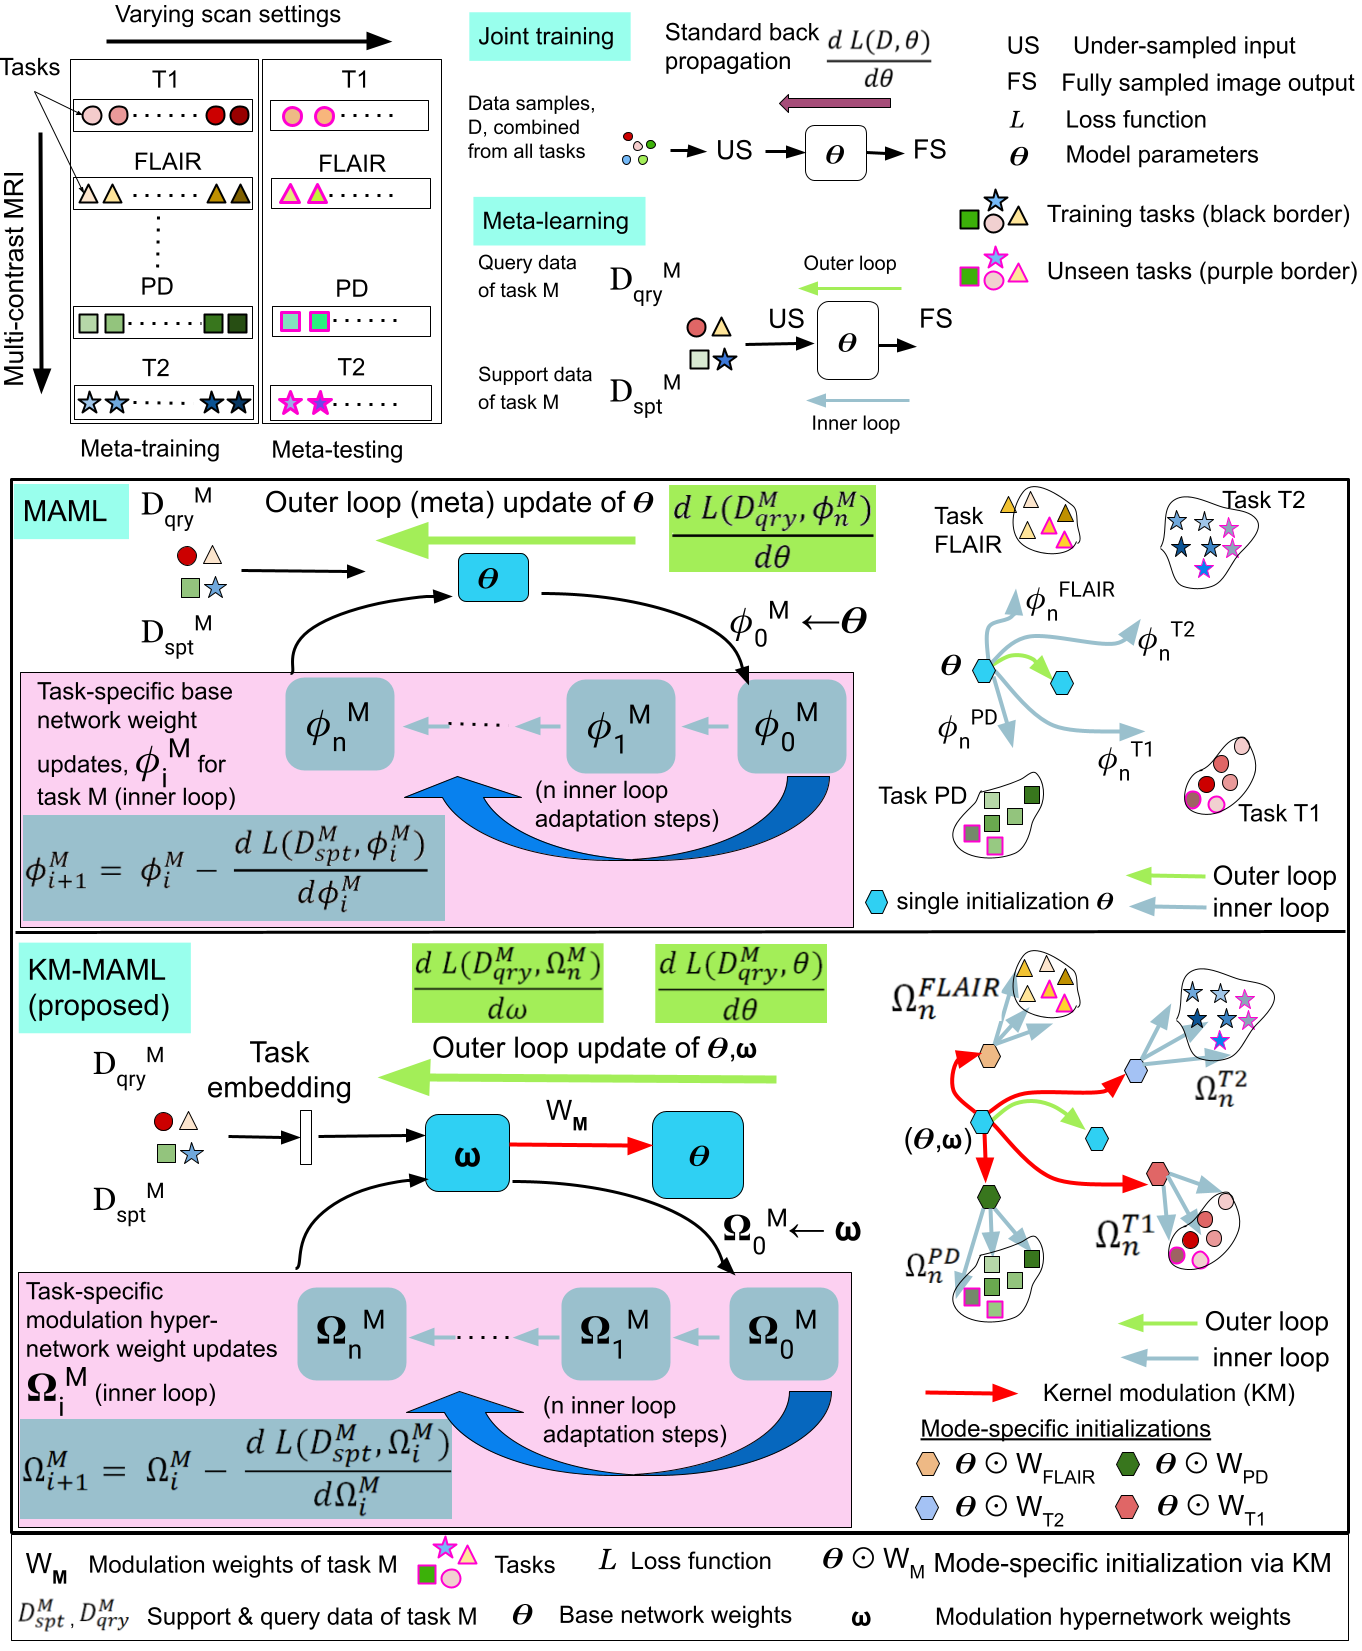
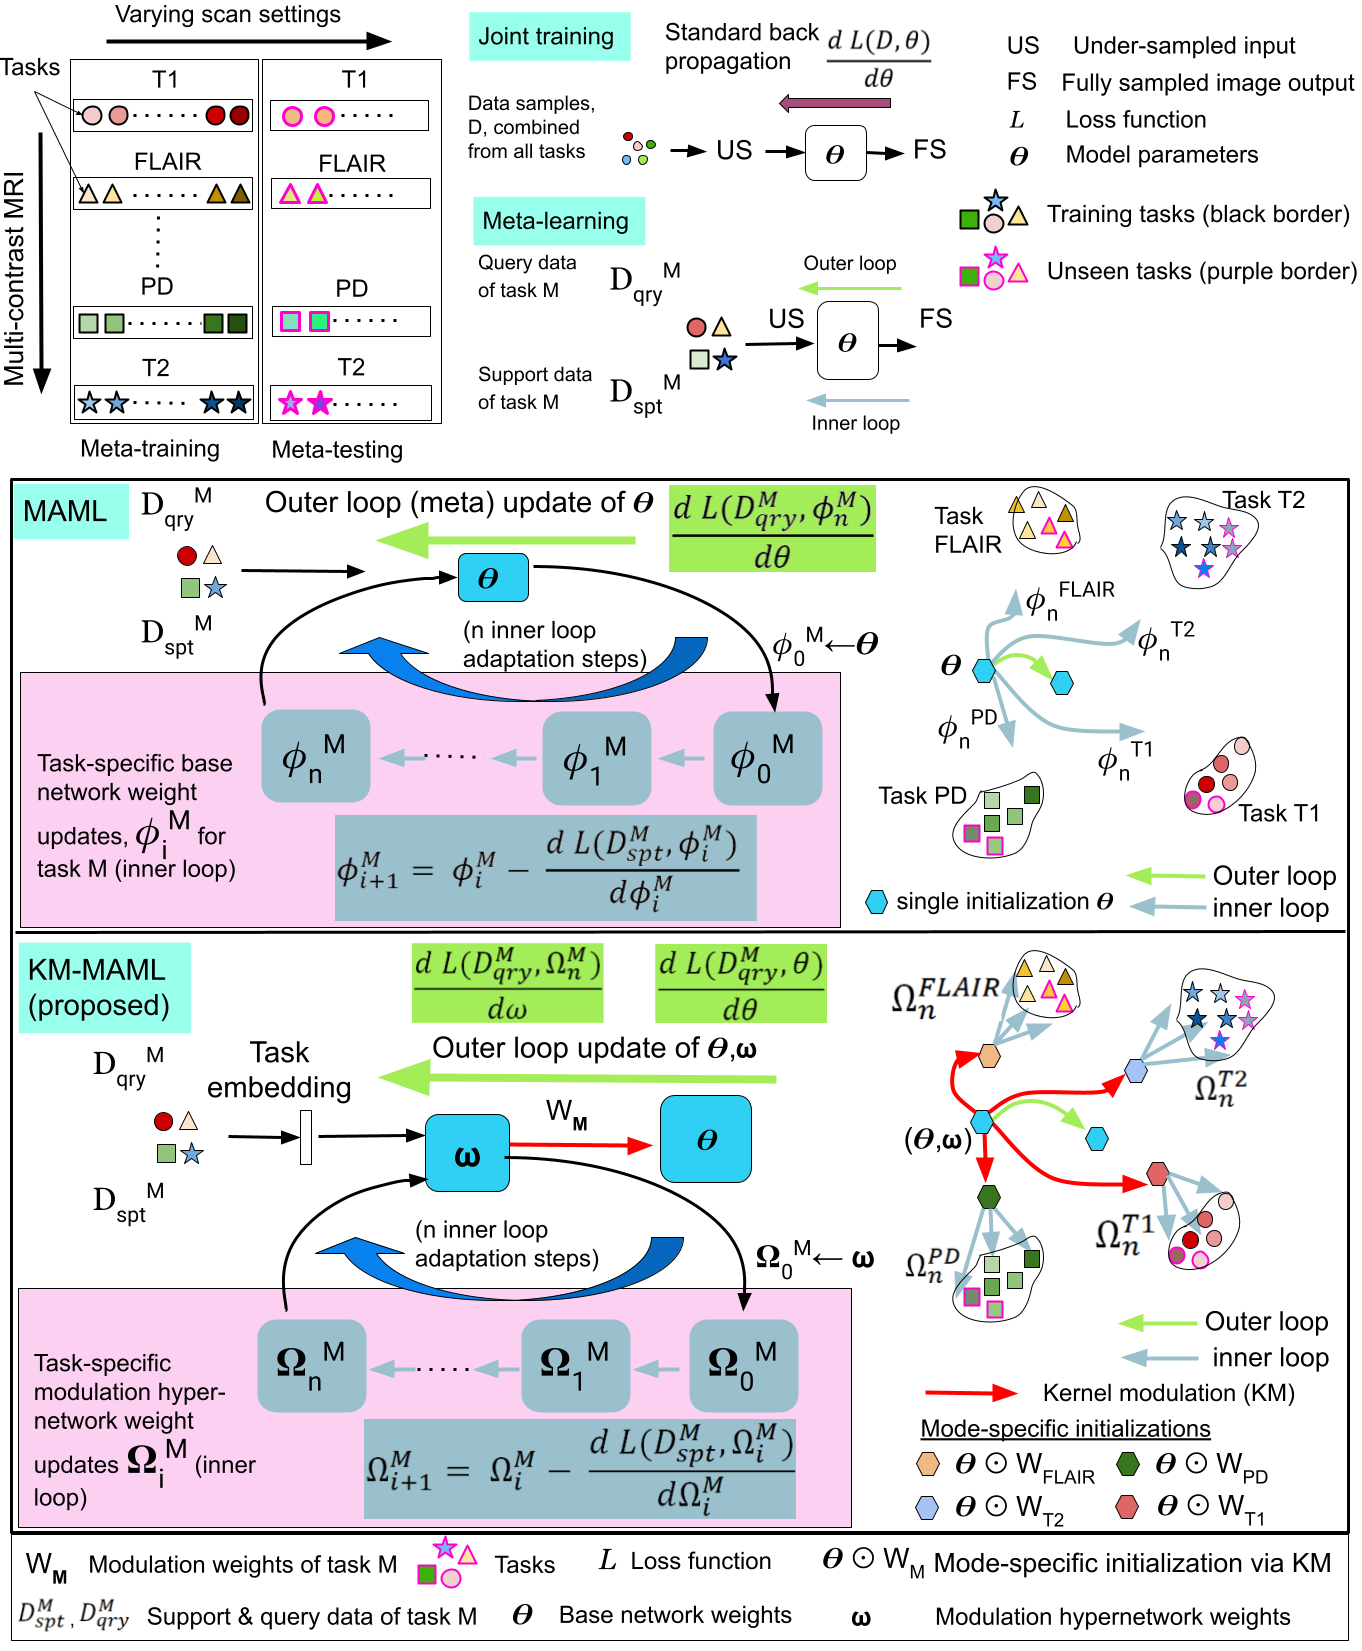
update figures, latest codes

Changed region(s): [[0.0, 0.6487, 0.6476, 0.9267], [0.0, 0.3398, 0.6476, 0.556], [0.7401, 0.278, 0.7709, 0.3089]]

diff --git a/src/KM-MAML/models.py b/src/KM-MAML/models.py
@@ -293,6 +293,120 @@ class UnetKernelModulationNetworkEncDecSmallest(nn.Module):
         return down_mod_weights, latentmodulationweight,up_mod_weights
 
 
+class UnetKernelModulationNetworkEncDecSmallestWithBottleneck(nn.Module):
+    def __init__(self,contextvectorsize,in_chans, out_chans, chans, num_pool_layers):
+        super(UnetKernelModulationNetworkEncDecSmallestWithBottleneck,self).__init__()
+        
+        self.num_pool_layers = num_pool_layers
+        
+        self.alpha_down = nn.ModuleList()
+        self.beta_down = nn.ModuleList()
+        
+        self.alpha_latent = nn.ModuleList()
+        self.beta_latent = nn.ModuleList()
+
+        self.alpha_up = nn.ModuleList()
+        self.beta_up = nn.ModuleList()
+        
+        self.alpha_down += [nn.Sequential(nn.Linear(contextvectorsize,8),nn.Linear(8,in_chans))]
+        self.beta_down += [nn.Sequential(nn.Linear(contextvectorsize,8),nn.Linear(8,chans))]
+        
+        ch = chans
+        
+        for i in range(num_pool_layers - 1):
+            self.alpha_down += [nn.Sequential(nn.Linear(contextvectorsize,8),nn.Linear(8,ch))]
+            self.beta_down += [nn.Sequential(nn.Linear(contextvectorsize,8),nn.Linear(8,ch*2))]
+            ch *= 2
+            
+        self.alpha_latent += [nn.Sequential(nn.Linear(contextvectorsize,8),nn.Linear(8,ch))]
+        self.beta_latent += [nn.Sequential(nn.Linear(contextvectorsize,8),nn.Linear(8,ch))]
+        
+        for i in range(num_pool_layers - 1):
+            self.alpha_up += [nn.Sequential(nn.Linear(contextvectorsize,8),nn.Linear(8,ch*2))]
+            self.beta_up += [nn.Sequential(nn.Linear(contextvectorsize,8),nn.Linear(8,ch//2))]
+            ch //= 2
+        
+        self.alpha_up += [nn.Sequential(nn.Linear(contextvectorsize,8),nn.Linear(8,ch*2))]
+        self.beta_up += [nn.Sequential(nn.Linear(contextvectorsize,8),nn.Linear(8,ch))]
+
+        
+    def forward(self, gamma_val):
+        down_mod_weights=[]
+        up_mod_weights = []
+
+        for i in range(self.num_pool_layers):
+            alphadown = self.alpha_down[i](gamma_val)            
+            betadown = self.beta_down[i](gamma_val)
+            downmodulationweight = torch.matmul(torch.t(betadown),alphadown)
+            down_mod_weights.append(downmodulationweight.unsqueeze(2).unsqueeze(3))        
+        
+        alphalatent = self.alpha_latent[0](gamma_val)      
+        betalatent = self.beta_latent[0](gamma_val)
+        latentmodulationweight = torch.matmul(torch.t(betalatent),alphalatent) 
+        latentmodulationweight = latentmodulationweight.unsqueeze(2).unsqueeze(3)
+        
+        for i in range(self.num_pool_layers):
+            alphaup = self.alpha_up[i](gamma_val)            
+            betaup = self.beta_up[i](gamma_val)
+            upmodulationweight = torch.matmul(torch.t(betaup),alphaup)
+            up_mod_weights.append(upmodulationweight.unsqueeze(2).unsqueeze(3))
+            
+        return down_mod_weights, latentmodulationweight,up_mod_weights
+    
+    def adaptation(self,gamma_val, weights):
+        down_mod_weights=[]
+        up_mod_weights = []        
+        alphadownlist = []
+        betadownlist = []
+
+        for i in range(0,self.num_pool_layers): 
+
+            alphadown_interm = F.linear(gamma_val,weights[4*i],weights[(4*i)+1])
+            alphadown = F.linear(alphadown_interm,weights[(4*i)+2],weights[(4*i)+3])
+            alphadownlist.append(alphadown)
+        
+        downindex = self.num_pool_layers*2*2
+        
+        for i in range(0,self.num_pool_layers):       
+            betadown = F.linear(F.linear(gamma_val,weights[downindex + (4*i)],weights[(downindex + (4*i))+1]), 
+                                weights[downindex + (4*i)+2],weights[(downindex + (4*i))+3])
+            betadownlist.append(betadown)
+        
+        for i in range(0,self.num_pool_layers):  
+            downmodulationweight = torch.matmul(torch.t(betadownlist[i]),alphadownlist[i])
+            down_mod_weights.append(downmodulationweight.unsqueeze(2).unsqueeze(3))
+        
+        latentindex = downindex + self.num_pool_layers*2*2
+        
+        alphalatent = F.linear(F.linear(gamma_val,weights[latentindex],weights[latentindex+1]),weights[latentindex+2],weights[latentindex+3])
+        betalatent = F.linear(F.linear(gamma_val,weights[latentindex+4],weights[latentindex+5]),weights[latentindex+6],weights[latentindex+7])
+                                                                                                          
+        latentmodulationweight = torch.matmul(torch.t(betalatent),alphalatent) 
+        latentmodulationweight = latentmodulationweight.unsqueeze(2).unsqueeze(3)
+        upindex = 4*2 + latentindex
+        alphauplist = []
+        betauplist = []
+        
+        for i in range(0,self.num_pool_layers):       
+            alphaup = F.linear(F.linear(gamma_val,weights[upindex + (4*i)],weights[(upindex + (4*i))+1]),
+                               weights[upindex + (4*i)+2],weights[(upindex + (4*i))+3])
+            alphauplist.append(alphaup)
+        
+        upindex = upindex + (self.num_pool_layers*2*2)
+        
+        for i in range(0,self.num_pool_layers):       
+            betaup = F.linear(F.linear(gamma_val,weights[upindex + (4*i)],weights[(upindex + (4*i))+1]),
+                              weights[upindex + (4*i)+2],weights[(upindex + (4*i))+3])
+            betauplist.append(betaup)
+            
+        for i in range(0,self.num_pool_layers):  
+            upmodulationweight = torch.matmul(torch.t(betauplist[i]),alphauplist[i])
+            up_mod_weights.append(upmodulationweight.unsqueeze(2).unsqueeze(3))
+        
+        return down_mod_weights, latentmodulationweight,up_mod_weights
+
+
+
 class UnetMACReconNetEncDecKM(nn.Module):
     def __init__(self, args, in_chans, out_chans, chans, num_pool_layers, drop_prob):
         super().__init__()

diff --git a/src/KM-MAML/train.py b/src/KM-MAML/train.py
@@ -408,7 +408,8 @@ def save_model(args, exp_dir, epoch, model, optimizer,best_dev_loss,is_new_best,
 def build_model(args):
     
     basemodel = UnetMACReconNetEncDecKM(args, in_chans=1, out_chans=1, chans=32, num_pool_layers=3, drop_prob=0.0).to(args.device).double()
-    km_model = UnetKernelModulationNetworkEncDecSmallest(contextvectorsize=256,in_chans=1, out_chans=1, chans=32,num_pool_layers=3).to(args.device).double() # double to make the weights in double since input type is double 
+    #km_model = UnetKernelModulationNetworkEncDecSmallest(contextvectorsize=256,in_chans=1, out_chans=1, chans=32,num_pool_layers=3).to(args.device).double() # double to make the weights in double since input type is double 
+    km_model = UnetKernelModulationNetworkEncDecSmallestWithBottleneck(contextvectorsize=256,in_chans=1, out_chans=1, chans=32,num_pool_layers=3).to(args.device).double() # double to make the weights in double since input type is double 
     task_enc_checkpointfile = args.disentangle_model_path
     task_enc_checkpoint = torch.load(task_enc_checkpointfile)
     task_encoder = UnetModel(in_chans=1, out_chans=1, chans=32,num_pool_layers=3,drop_prob=0.0).to(args.device).double()
